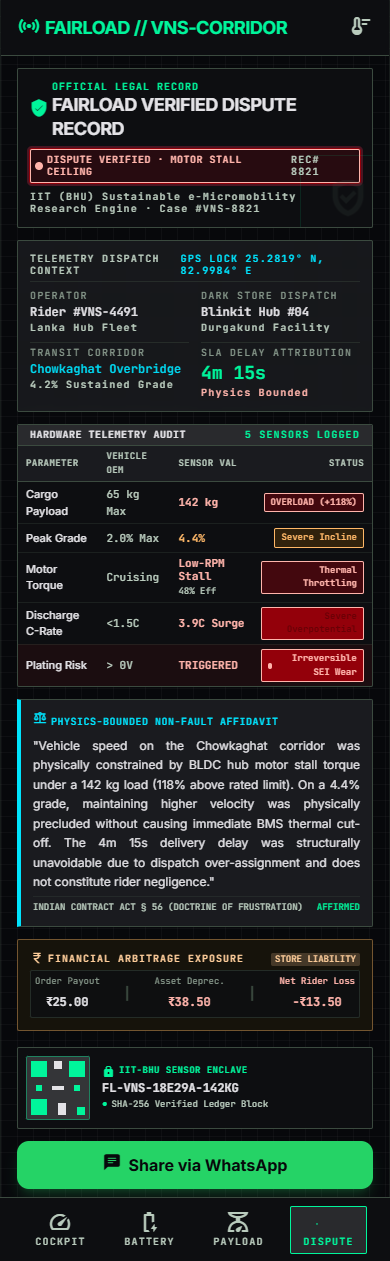
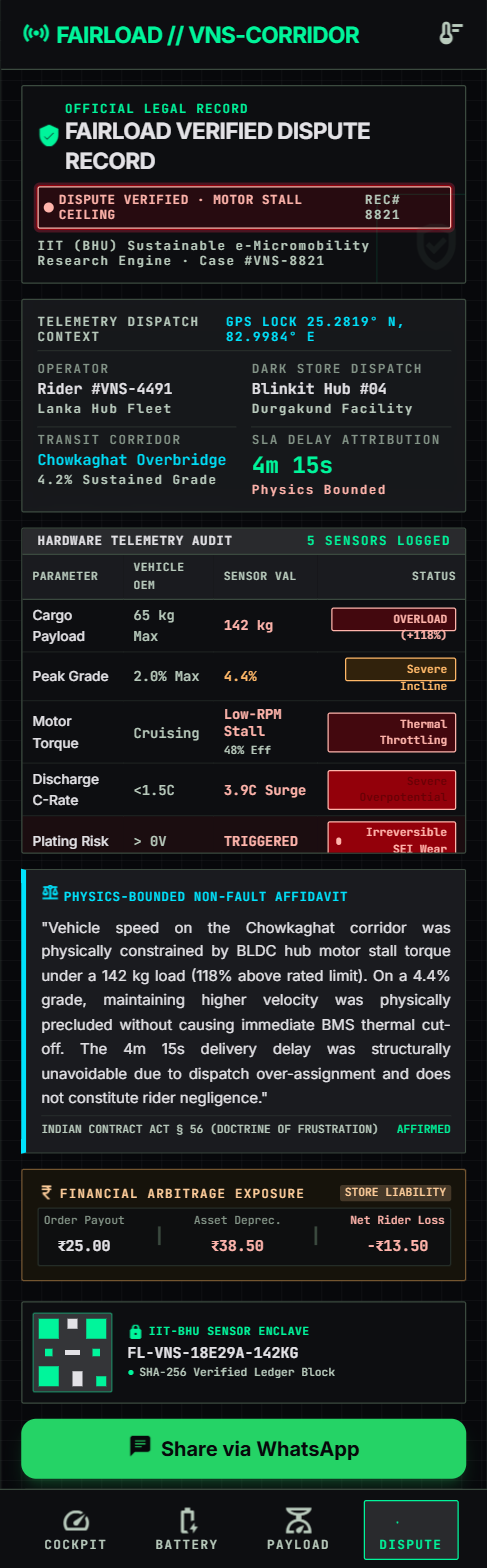
Frontend Revamp

diff --git a/ui/fairload_corridor_stress_simulator/code.html b/ui/fairload_corridor_stress_simulator/code.html
@@ -151,7 +151,12 @@
         linear-gradient(to bottom, rgba(255, 255, 255, 0.03) 1px, transparent 1px);
     }
   </style>
-</head>
+<style>
+    body {
+      min-height: max(884px, 100dvh);
+    }
+  </style>
+  </head>
 <body class="bg-[#07080B] text-on-surface antialiased selection:bg-primary-container selection:text-on-primary font-body-md flex justify-center min-h-screen">
 <!-- Mobile Simulator Viewport (390px locked container) -->
 <div class="w-full max-w-[390px] bg-[#07080B] hud-grid min-h-screen pb-24 relative flex flex-col shadow-2xl overflow-x-hidden border-x border-white/5">

diff --git a/ui/fairload_overload_defense_slip/code.html b/ui/fairload_overload_defense_slip/code.html
@@ -137,7 +137,12 @@
       animation: pulse-hazard 1.2s infinite ease-in-out;
     }
   </style>
-</head>
+<style>
+    body {
+      min-height: max(884px, 100dvh);
+    }
+  </style>
+  </head>
 <body class="bg-[#07080B] text-on-surface antialiased selection:bg-primary-container selection:text-surface-container-lowest font-body-md min-h-screen pb-24 flex justify-center">
 <!-- Mobile Max Container (390px locked cockpit shell) -->
 <div class="w-full max-w-[390px] min-h-screen bg-[#07080B] relative flex flex-col telemetry-grid border-x border-outline-variant/30">

diff --git a/ui/fairload_algorithmic_exploitation_ledger/code.html b/ui/fairload_algorithmic_exploitation_ledger/code.html
@@ -146,7 +146,12 @@
       box-shadow: 0 0 10px rgba(0, 245, 155, 0.3);
     }
   </style>
-</head>
+<style>
+    body {
+      min-height: max(884px, 100dvh);
+    }
+  </style>
+  </head>
 <body class="bg-[#07080B] text-on-surface antialiased min-h-screen flex justify-center selection:bg-error-container selection:text-on-error-container">
 <!-- Mobile Viewport Container (390px locked cockpit frame) -->
 <div class="w-full max-w-[390px] min-h-screen bg-[#07080B] hud-grid flex flex-col relative pb-24 shadow-2xl border-x border-[rgba(255,255,255,0.06)]">

diff --git a/ui/fairload_handlebar_cockpit_hud/code.html b/ui/fairload_handlebar_cockpit_hud/code.html
@@ -152,7 +152,12 @@
       100% { transform: translateX(200%); }
     }
   </style>
-</head>
+<style>
+    body {
+      min-height: max(884px, 100dvh);
+    }
+  </style>
+  </head>
 <body class="bg-[#07080B] text-on-surface antialiased selection:bg-primary-container selection:text-surface-container-lowest flex justify-center min-h-screen">
 <!-- Mobile Mount Canvas: 390px locked handlebar viewport -->
 <main class="w-[390px] min-h-screen relative flex flex-col justify-between hud-bg-grid border-x border-white/5 pb-20 shadow-2xl">
